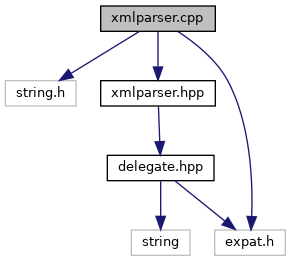
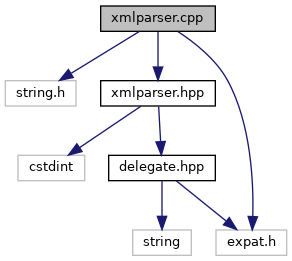
Deploying to gh-pages from @ gittiver/libexpatpp@73c6d649e3201de60597286577522f3f3f06a42f 🚀

diff --git a/xmlparser_8hpp_source.html b/xmlparser_8hpp_source.html
@@ -51,104 +51,106 @@ $(function() {
 <div class="line"><a name="l00006"></a><span class="lineno">    6</span>&#160;<span class="preprocessor">#ifndef xmlpp_parser_hpp</span></div>
 <div class="line"><a name="l00007"></a><span class="lineno">    7</span>&#160;<span class="preprocessor">#define xmlpp_parser_hpp</span></div>
 <div class="line"><a name="l00008"></a><span class="lineno">    8</span>&#160; </div>
-<div class="line"><a name="l00009"></a><span class="lineno">    9</span>&#160;<span class="preprocessor">#include &quot;<a class="code" href="delegate_8hpp.html">delegate.hpp</a>&quot;</span> </div>
-<div class="line"><a name="l00010"></a><span class="lineno">   10</span>&#160;<span class="keyword">namespace </span>xmlpp {</div>
+<div class="line"><a name="l00009"></a><span class="lineno">    9</span>&#160;<span class="preprocessor">#include &lt;cstdint&gt;</span></div>
+<div class="line"><a name="l00010"></a><span class="lineno">   10</span>&#160;<span class="preprocessor">#include &quot;<a class="code" href="delegate_8hpp.html">delegate.hpp</a>&quot;</span> </div>
 <div class="line"><a name="l00011"></a><span class="lineno">   11</span>&#160; </div>
-<div class="line"><a name="l00012"></a><span class="lineno">   12</span>&#160; </div>
-<div class="line"><a name="l00014"></a><span class="lineno"><a class="line" href="classxmlpp_1_1parser.html">   14</a></span>&#160;<span class="keyword">class </span><a class="code" href="classxmlpp_1_1parser.html">parser</a> {</div>
-<div class="line"><a name="l00015"></a><span class="lineno">   15</span>&#160;<span class="keyword">public</span>:</div>
-<div class="line"><a name="l00016"></a><span class="lineno">   16</span>&#160;  <span class="keyword">enum class</span> result : uint8_t {</div>
-<div class="line"><a name="l00017"></a><span class="lineno">   17</span>&#160;    OK,</div>
-<div class="line"><a name="l00018"></a><span class="lineno">   18</span>&#160;    NO_DELEGATE,</div>
-<div class="line"><a name="l00019"></a><span class="lineno">   19</span>&#160;    ERROR_OPEN_FILE,</div>
-<div class="line"><a name="l00020"></a><span class="lineno">   20</span>&#160;    INVALID_INPUT,</div>
-<div class="line"><a name="l00021"></a><span class="lineno">   21</span>&#160;    XML_BUFFER_ERROR,</div>
-<div class="line"><a name="l00022"></a><span class="lineno">   22</span>&#160;    READ_ERROR,</div>
-<div class="line"><a name="l00023"></a><span class="lineno">   23</span>&#160;    PARSE_ERROR</div>
-<div class="line"><a name="l00024"></a><span class="lineno">   24</span>&#160;  };</div>
-<div class="line"><a name="l00025"></a><span class="lineno">   25</span>&#160;  <span class="keyword">enum class</span> status_t {</div>
-<div class="line"><a name="l00026"></a><span class="lineno">   26</span>&#160;      ERROR = 0,</div>
-<div class="line"><a name="l00027"></a><span class="lineno">   27</span>&#160;      OK = 1,</div>
-<div class="line"><a name="l00028"></a><span class="lineno">   28</span>&#160;      SUSPENDED = 2</div>
-<div class="line"><a name="l00029"></a><span class="lineno">   29</span>&#160;  };</div>
-<div class="line"><a name="l00030"></a><span class="lineno">   30</span>&#160;  <span class="keyword">enum class</span> error_t {</div>
-<div class="line"><a name="l00031"></a><span class="lineno">   31</span>&#160;    NONE,</div>
-<div class="line"><a name="l00032"></a><span class="lineno">   32</span>&#160;    NO_MEMORY,</div>
-<div class="line"><a name="l00033"></a><span class="lineno">   33</span>&#160;    SYNTAX,</div>
-<div class="line"><a name="l00034"></a><span class="lineno">   34</span>&#160;    NO_ELEMENTS,</div>
-<div class="line"><a name="l00035"></a><span class="lineno">   35</span>&#160;    INVALID_TOKEN,</div>
-<div class="line"><a name="l00036"></a><span class="lineno">   36</span>&#160;    UNCLOSED_TOKEN,</div>
-<div class="line"><a name="l00037"></a><span class="lineno">   37</span>&#160;    PARTIAL_CHAR,</div>
-<div class="line"><a name="l00038"></a><span class="lineno">   38</span>&#160;    TAG_MISMATCH,</div>
-<div class="line"><a name="l00039"></a><span class="lineno">   39</span>&#160;    DUPLICATE_ATTRIBUTE,</div>
-<div class="line"><a name="l00040"></a><span class="lineno">   40</span>&#160;    JUNK_AFTER_DOC_ELEMENT,</div>
-<div class="line"><a name="l00041"></a><span class="lineno">   41</span>&#160;    PARAM_ENTITY_REF,</div>
-<div class="line"><a name="l00042"></a><span class="lineno">   42</span>&#160;    UNDEFINED_ENTITY,</div>
-<div class="line"><a name="l00043"></a><span class="lineno">   43</span>&#160;    RECURSIVE_ENTITY_REF,</div>
-<div class="line"><a name="l00044"></a><span class="lineno">   44</span>&#160;    ASYNC_ENTITY,</div>
-<div class="line"><a name="l00045"></a><span class="lineno">   45</span>&#160;    BAD_CHAR_REF,</div>
-<div class="line"><a name="l00046"></a><span class="lineno">   46</span>&#160;    BINARY_ENTITY_REF,</div>
-<div class="line"><a name="l00047"></a><span class="lineno">   47</span>&#160;    ATTRIBUTE_EXTERNAL_ENTITY_REF,</div>
-<div class="line"><a name="l00048"></a><span class="lineno">   48</span>&#160;    MISPLACED_XML_PI,</div>
-<div class="line"><a name="l00049"></a><span class="lineno">   49</span>&#160;    UNKNOWN_ENCODING,</div>
-<div class="line"><a name="l00050"></a><span class="lineno">   50</span>&#160;    INCORRECT_ENCODING,</div>
-<div class="line"><a name="l00051"></a><span class="lineno">   51</span>&#160;    UNCLOSED_CDATA_SECTION,</div>
-<div class="line"><a name="l00052"></a><span class="lineno">   52</span>&#160;    EXTERNAL_ENTITY_HANDLING,</div>
-<div class="line"><a name="l00053"></a><span class="lineno">   53</span>&#160;    NOT_STANDALONE,</div>
-<div class="line"><a name="l00054"></a><span class="lineno">   54</span>&#160;    UNEXPECTED_STATE,</div>
-<div class="line"><a name="l00055"></a><span class="lineno">   55</span>&#160;    ENTITY_DECLARED_IN_PE,</div>
-<div class="line"><a name="l00056"></a><span class="lineno">   56</span>&#160;    FEATURE_REQUIRES_XML_DTD,</div>
-<div class="line"><a name="l00057"></a><span class="lineno">   57</span>&#160;    CANT_CHANGE_FEATURE_ONCE_PARSING,</div>
-<div class="line"><a name="l00058"></a><span class="lineno">   58</span>&#160;    UNBOUND_PREFIX,</div>
-<div class="line"><a name="l00059"></a><span class="lineno">   59</span>&#160;    UNDECLARING_PREFIX,</div>
-<div class="line"><a name="l00060"></a><span class="lineno">   60</span>&#160;    INCOMPLETE_PE,</div>
-<div class="line"><a name="l00061"></a><span class="lineno">   61</span>&#160;    XML_DECL,</div>
-<div class="line"><a name="l00062"></a><span class="lineno">   62</span>&#160;    TEXT_DECL,</div>
-<div class="line"><a name="l00063"></a><span class="lineno">   63</span>&#160;    PUBLICID,</div>
-<div class="line"><a name="l00064"></a><span class="lineno">   64</span>&#160;    SUSPENDED,</div>
-<div class="line"><a name="l00065"></a><span class="lineno">   65</span>&#160;    NOT_SUSPENDED,</div>
-<div class="line"><a name="l00066"></a><span class="lineno">   66</span>&#160;    ABORTED,</div>
-<div class="line"><a name="l00067"></a><span class="lineno">   67</span>&#160;    FINISHED,</div>
-<div class="line"><a name="l00068"></a><span class="lineno">   68</span>&#160;    SUSPEND_PE,</div>
-<div class="line"><a name="l00069"></a><span class="lineno">   69</span>&#160;    RESERVED_PREFIX_XML,</div>
-<div class="line"><a name="l00070"></a><span class="lineno">   70</span>&#160;    RESERVED_PREFIX_XMLNS,</div>
-<div class="line"><a name="l00071"></a><span class="lineno">   71</span>&#160;    RESERVED_NAMESPACE_URI,</div>
-<div class="line"><a name="l00072"></a><span class="lineno">   72</span>&#160;    INVALID_ARGUMENT</div>
-<div class="line"><a name="l00073"></a><span class="lineno">   73</span>&#160;  };</div>
-<div class="line"><a name="l00074"></a><span class="lineno">   74</span>&#160; </div>
-<div class="line"><a name="l00075"></a><span class="lineno">   75</span>&#160;  <a class="code" href="classxmlpp_1_1parser.html">parser</a>(<a class="code" href="classxmlpp_1_1delegate.html">delegate</a>&amp; <a class="code" href="classxmlpp_1_1delegate.html">delegate</a>,<span class="keywordtype">char</span> namespaceSeparator = <span class="charliteral">&#39;:&#39;</span>);</div>
-<div class="line"><a name="l00076"></a><span class="lineno">   76</span>&#160;  <span class="keyword">virtual</span> ~<a class="code" href="classxmlpp_1_1parser.html">parser</a>();</div>
-<div class="line"><a name="l00077"></a><span class="lineno">   77</span>&#160; </div>
-<div class="line"><a name="l00078"></a><span class="lineno">   78</span>&#160;  <span class="keyword">static</span> result parseString(<span class="keyword">const</span> <span class="keywordtype">char</span>*pszString, <a class="code" href="classxmlpp_1_1delegate.html">delegate</a>&amp; <a class="code" href="classxmlpp_1_1delegate.html">delegate</a>);</div>
-<div class="line"><a name="l00079"></a><span class="lineno">   79</span>&#160;  <span class="keyword">static</span> result parseFile(<span class="keyword">const</span> std::string&amp; filename, <a class="code" href="classxmlpp_1_1delegate.html">delegate</a>&amp; <a class="code" href="classxmlpp_1_1delegate.html">delegate</a>);</div>
-<div class="line"><a name="l00086"></a><span class="lineno">   86</span>&#160;  <span class="keyword">static</span> <span class="keyword">const</span> XML_Char* <a class="code" href="classxmlpp_1_1parser.html#a2bc912d077428ccc1cb92ae58e3bb95c">xmlGetAttrValue</a>(<span class="keyword">const</span> XML_Char** attrs,</div>
-<div class="line"><a name="l00087"></a><span class="lineno">   87</span>&#160;                                  <span class="keyword">const</span> XML_Char* key);</div>
-<div class="line"><a name="l00088"></a><span class="lineno">   88</span>&#160; </div>
-<div class="line"><a name="l00089"></a><span class="lineno">   89</span>&#160; </div>
-<div class="line"><a name="l00090"></a><span class="lineno">   90</span>&#160;  status_t parse(<span class="keyword">const</span> <span class="keywordtype">char</span>* buffer, <span class="keywordtype">int</span> len, <span class="keywordtype">bool</span> isFinal);</div>
-<div class="line"><a name="l00091"></a><span class="lineno">   91</span>&#160;  error_t errorcode() <span class="keyword">const</span>;</div>
-<div class="line"><a name="l00092"></a><span class="lineno">   92</span>&#160;  <span class="keywordtype">int</span> current_line_number() <span class="keyword">const</span> ;</div>
-<div class="line"><a name="l00093"></a><span class="lineno">   93</span>&#160;  <span class="keywordtype">int</span> current_column_number() <span class="keyword">const</span> ;</div>
-<div class="line"><a name="l00094"></a><span class="lineno">   94</span>&#160;<span class="keyword">private</span>:</div>
-<div class="line"><a name="l00095"></a><span class="lineno">   95</span>&#160;  XML_Parser m_parser;</div>
-<div class="line"><a name="l00096"></a><span class="lineno">   96</span>&#160;};</div>
-<div class="line"><a name="l00097"></a><span class="lineno">   97</span>&#160; </div>
-<div class="line"><a name="l00099"></a><span class="lineno">   99</span>&#160;<span class="comment">//result parseFile(const std::string&amp; filename, delegate&amp; pDelegate);</span></div>
-<div class="line"><a name="l00100"></a><span class="lineno">  100</span>&#160; </div>
-<div class="line"><a name="l00101"></a><span class="lineno"><a class="line" href="classxmlpp_1_1Attr.html">  101</a></span>&#160;<span class="keyword">class </span><a class="code" href="classxmlpp_1_1Attr.html">Attr</a> {</div>
-<div class="line"><a name="l00102"></a><span class="lineno">  102</span>&#160;<span class="keyword">public</span>:</div>
-<div class="line"><a name="l00103"></a><span class="lineno">  103</span>&#160;  <a class="code" href="classxmlpp_1_1Attr.html">Attr</a>(<span class="keyword">const</span> XML_Char** attrs) : attrs_(attrs){};</div>
-<div class="line"><a name="l00104"></a><span class="lineno">  104</span>&#160;  std::string getValue(<span class="keyword">const</span> <span class="keywordtype">char</span>* key);</div>
-<div class="line"><a name="l00105"></a><span class="lineno">  105</span>&#160;<span class="keyword">private</span>:</div>
-<div class="line"><a name="l00106"></a><span class="lineno">  106</span>&#160;  <span class="keyword">const</span> XML_Char** attrs_{<span class="keyword">nullptr</span>};</div>
-<div class="line"><a name="l00107"></a><span class="lineno">  107</span>&#160;};</div>
-<div class="line"><a name="l00108"></a><span class="lineno">  108</span>&#160; </div>
-<div class="line"><a name="l00109"></a><span class="lineno">  109</span>&#160; </div>
-<div class="line"><a name="l00110"></a><span class="lineno">  110</span>&#160;}</div>
-<div class="line"><a name="l00111"></a><span class="lineno">  111</span>&#160;<span class="preprocessor">#endif </span><span class="comment">// #ifndef xmlpp_parser_hpp</span></div>
-<div class="ttc" id="aclassxmlpp_1_1Attr_html"><div class="ttname"><a href="classxmlpp_1_1Attr.html">xmlpp::Attr</a></div><div class="ttdoc">the parser delegate handles the different parser events</div><div class="ttdef"><b>Definition:</b> xmlparser.hpp:101</div></div>
+<div class="line"><a name="l00012"></a><span class="lineno">   12</span>&#160;<span class="keyword">namespace </span>xmlpp {</div>
+<div class="line"><a name="l00013"></a><span class="lineno">   13</span>&#160; </div>
+<div class="line"><a name="l00014"></a><span class="lineno">   14</span>&#160; </div>
+<div class="line"><a name="l00016"></a><span class="lineno"><a class="line" href="classxmlpp_1_1parser.html">   16</a></span>&#160;<span class="keyword">class </span><a class="code" href="classxmlpp_1_1parser.html">parser</a> {</div>
+<div class="line"><a name="l00017"></a><span class="lineno">   17</span>&#160;<span class="keyword">public</span>:</div>
+<div class="line"><a name="l00018"></a><span class="lineno">   18</span>&#160;  <span class="keyword">enum class</span> result : uint8_t {</div>
+<div class="line"><a name="l00019"></a><span class="lineno">   19</span>&#160;    OK,</div>
+<div class="line"><a name="l00020"></a><span class="lineno">   20</span>&#160;    NO_DELEGATE,</div>
+<div class="line"><a name="l00021"></a><span class="lineno">   21</span>&#160;    ERROR_OPEN_FILE,</div>
+<div class="line"><a name="l00022"></a><span class="lineno">   22</span>&#160;    INVALID_INPUT,</div>
+<div class="line"><a name="l00023"></a><span class="lineno">   23</span>&#160;    XML_BUFFER_ERROR,</div>
+<div class="line"><a name="l00024"></a><span class="lineno">   24</span>&#160;    READ_ERROR,</div>
+<div class="line"><a name="l00025"></a><span class="lineno">   25</span>&#160;    PARSE_ERROR</div>
+<div class="line"><a name="l00026"></a><span class="lineno">   26</span>&#160;  };</div>
+<div class="line"><a name="l00027"></a><span class="lineno">   27</span>&#160;  <span class="keyword">enum class</span> status_t {</div>
+<div class="line"><a name="l00028"></a><span class="lineno">   28</span>&#160;      ERROR = 0,</div>
+<div class="line"><a name="l00029"></a><span class="lineno">   29</span>&#160;      OK = 1,</div>
+<div class="line"><a name="l00030"></a><span class="lineno">   30</span>&#160;      SUSPENDED = 2</div>
+<div class="line"><a name="l00031"></a><span class="lineno">   31</span>&#160;  };</div>
+<div class="line"><a name="l00032"></a><span class="lineno">   32</span>&#160;  <span class="keyword">enum class</span> error_t {</div>
+<div class="line"><a name="l00033"></a><span class="lineno">   33</span>&#160;    NONE,</div>
+<div class="line"><a name="l00034"></a><span class="lineno">   34</span>&#160;    NO_MEMORY,</div>
+<div class="line"><a name="l00035"></a><span class="lineno">   35</span>&#160;    SYNTAX,</div>
+<div class="line"><a name="l00036"></a><span class="lineno">   36</span>&#160;    NO_ELEMENTS,</div>
+<div class="line"><a name="l00037"></a><span class="lineno">   37</span>&#160;    INVALID_TOKEN,</div>
+<div class="line"><a name="l00038"></a><span class="lineno">   38</span>&#160;    UNCLOSED_TOKEN,</div>
+<div class="line"><a name="l00039"></a><span class="lineno">   39</span>&#160;    PARTIAL_CHAR,</div>
+<div class="line"><a name="l00040"></a><span class="lineno">   40</span>&#160;    TAG_MISMATCH,</div>
+<div class="line"><a name="l00041"></a><span class="lineno">   41</span>&#160;    DUPLICATE_ATTRIBUTE,</div>
+<div class="line"><a name="l00042"></a><span class="lineno">   42</span>&#160;    JUNK_AFTER_DOC_ELEMENT,</div>
+<div class="line"><a name="l00043"></a><span class="lineno">   43</span>&#160;    PARAM_ENTITY_REF,</div>
+<div class="line"><a name="l00044"></a><span class="lineno">   44</span>&#160;    UNDEFINED_ENTITY,</div>
+<div class="line"><a name="l00045"></a><span class="lineno">   45</span>&#160;    RECURSIVE_ENTITY_REF,</div>
+<div class="line"><a name="l00046"></a><span class="lineno">   46</span>&#160;    ASYNC_ENTITY,</div>
+<div class="line"><a name="l00047"></a><span class="lineno">   47</span>&#160;    BAD_CHAR_REF,</div>
+<div class="line"><a name="l00048"></a><span class="lineno">   48</span>&#160;    BINARY_ENTITY_REF,</div>
+<div class="line"><a name="l00049"></a><span class="lineno">   49</span>&#160;    ATTRIBUTE_EXTERNAL_ENTITY_REF,</div>
+<div class="line"><a name="l00050"></a><span class="lineno">   50</span>&#160;    MISPLACED_XML_PI,</div>
+<div class="line"><a name="l00051"></a><span class="lineno">   51</span>&#160;    UNKNOWN_ENCODING,</div>
+<div class="line"><a name="l00052"></a><span class="lineno">   52</span>&#160;    INCORRECT_ENCODING,</div>
+<div class="line"><a name="l00053"></a><span class="lineno">   53</span>&#160;    UNCLOSED_CDATA_SECTION,</div>
+<div class="line"><a name="l00054"></a><span class="lineno">   54</span>&#160;    EXTERNAL_ENTITY_HANDLING,</div>
+<div class="line"><a name="l00055"></a><span class="lineno">   55</span>&#160;    NOT_STANDALONE,</div>
+<div class="line"><a name="l00056"></a><span class="lineno">   56</span>&#160;    UNEXPECTED_STATE,</div>
+<div class="line"><a name="l00057"></a><span class="lineno">   57</span>&#160;    ENTITY_DECLARED_IN_PE,</div>
+<div class="line"><a name="l00058"></a><span class="lineno">   58</span>&#160;    FEATURE_REQUIRES_XML_DTD,</div>
+<div class="line"><a name="l00059"></a><span class="lineno">   59</span>&#160;    CANT_CHANGE_FEATURE_ONCE_PARSING,</div>
+<div class="line"><a name="l00060"></a><span class="lineno">   60</span>&#160;    UNBOUND_PREFIX,</div>
+<div class="line"><a name="l00061"></a><span class="lineno">   61</span>&#160;    UNDECLARING_PREFIX,</div>
+<div class="line"><a name="l00062"></a><span class="lineno">   62</span>&#160;    INCOMPLETE_PE,</div>
+<div class="line"><a name="l00063"></a><span class="lineno">   63</span>&#160;    XML_DECL,</div>
+<div class="line"><a name="l00064"></a><span class="lineno">   64</span>&#160;    TEXT_DECL,</div>
+<div class="line"><a name="l00065"></a><span class="lineno">   65</span>&#160;    PUBLICID,</div>
+<div class="line"><a name="l00066"></a><span class="lineno">   66</span>&#160;    SUSPENDED,</div>
+<div class="line"><a name="l00067"></a><span class="lineno">   67</span>&#160;    NOT_SUSPENDED,</div>
+<div class="line"><a name="l00068"></a><span class="lineno">   68</span>&#160;    ABORTED,</div>
+<div class="line"><a name="l00069"></a><span class="lineno">   69</span>&#160;    FINISHED,</div>
+<div class="line"><a name="l00070"></a><span class="lineno">   70</span>&#160;    SUSPEND_PE,</div>
+<div class="line"><a name="l00071"></a><span class="lineno">   71</span>&#160;    RESERVED_PREFIX_XML,</div>
+<div class="line"><a name="l00072"></a><span class="lineno">   72</span>&#160;    RESERVED_PREFIX_XMLNS,</div>
+<div class="line"><a name="l00073"></a><span class="lineno">   73</span>&#160;    RESERVED_NAMESPACE_URI,</div>
+<div class="line"><a name="l00074"></a><span class="lineno">   74</span>&#160;    INVALID_ARGUMENT</div>
+<div class="line"><a name="l00075"></a><span class="lineno">   75</span>&#160;  };</div>
+<div class="line"><a name="l00076"></a><span class="lineno">   76</span>&#160; </div>
+<div class="line"><a name="l00077"></a><span class="lineno">   77</span>&#160;  <a class="code" href="classxmlpp_1_1parser.html">parser</a>(<a class="code" href="classxmlpp_1_1delegate.html">delegate</a>&amp; <a class="code" href="classxmlpp_1_1delegate.html">delegate</a>,<span class="keywordtype">char</span> namespaceSeparator = <span class="charliteral">&#39;:&#39;</span>);</div>
+<div class="line"><a name="l00078"></a><span class="lineno">   78</span>&#160;  <span class="keyword">virtual</span> ~<a class="code" href="classxmlpp_1_1parser.html">parser</a>();</div>
+<div class="line"><a name="l00079"></a><span class="lineno">   79</span>&#160; </div>
+<div class="line"><a name="l00080"></a><span class="lineno">   80</span>&#160;  <span class="keyword">static</span> result parseString(<span class="keyword">const</span> <span class="keywordtype">char</span>*pszString, <a class="code" href="classxmlpp_1_1delegate.html">delegate</a>&amp; <a class="code" href="classxmlpp_1_1delegate.html">delegate</a>);</div>
+<div class="line"><a name="l00081"></a><span class="lineno">   81</span>&#160;  <span class="keyword">static</span> result parseFile(<span class="keyword">const</span> std::string&amp; filename, <a class="code" href="classxmlpp_1_1delegate.html">delegate</a>&amp; <a class="code" href="classxmlpp_1_1delegate.html">delegate</a>);</div>
+<div class="line"><a name="l00088"></a><span class="lineno">   88</span>&#160;  <span class="keyword">static</span> <span class="keyword">const</span> XML_Char* <a class="code" href="classxmlpp_1_1parser.html#a2bc912d077428ccc1cb92ae58e3bb95c">xmlGetAttrValue</a>(<span class="keyword">const</span> XML_Char** attrs,</div>
+<div class="line"><a name="l00089"></a><span class="lineno">   89</span>&#160;                                  <span class="keyword">const</span> XML_Char* key);</div>
+<div class="line"><a name="l00090"></a><span class="lineno">   90</span>&#160; </div>
+<div class="line"><a name="l00091"></a><span class="lineno">   91</span>&#160; </div>
+<div class="line"><a name="l00092"></a><span class="lineno">   92</span>&#160;  status_t parse(<span class="keyword">const</span> <span class="keywordtype">char</span>* buffer, <span class="keywordtype">int</span> len, <span class="keywordtype">bool</span> isFinal);</div>
+<div class="line"><a name="l00093"></a><span class="lineno">   93</span>&#160;  error_t errorcode() <span class="keyword">const</span>;</div>
+<div class="line"><a name="l00094"></a><span class="lineno">   94</span>&#160;  <span class="keywordtype">int</span> current_line_number() <span class="keyword">const</span> ;</div>
+<div class="line"><a name="l00095"></a><span class="lineno">   95</span>&#160;  <span class="keywordtype">int</span> current_column_number() <span class="keyword">const</span> ;</div>
+<div class="line"><a name="l00096"></a><span class="lineno">   96</span>&#160;<span class="keyword">private</span>:</div>
+<div class="line"><a name="l00097"></a><span class="lineno">   97</span>&#160;  XML_Parser m_parser;</div>
+<div class="line"><a name="l00098"></a><span class="lineno">   98</span>&#160;};</div>
+<div class="line"><a name="l00099"></a><span class="lineno">   99</span>&#160; </div>
+<div class="line"><a name="l00101"></a><span class="lineno">  101</span>&#160;<span class="comment">//result parseFile(const std::string&amp; filename, delegate&amp; pDelegate);</span></div>
+<div class="line"><a name="l00102"></a><span class="lineno">  102</span>&#160; </div>
+<div class="line"><a name="l00103"></a><span class="lineno"><a class="line" href="classxmlpp_1_1Attr.html">  103</a></span>&#160;<span class="keyword">class </span><a class="code" href="classxmlpp_1_1Attr.html">Attr</a> {</div>
+<div class="line"><a name="l00104"></a><span class="lineno">  104</span>&#160;<span class="keyword">public</span>:</div>
+<div class="line"><a name="l00105"></a><span class="lineno">  105</span>&#160;  <a class="code" href="classxmlpp_1_1Attr.html">Attr</a>(<span class="keyword">const</span> XML_Char** attrs) : attrs_(attrs){};</div>
+<div class="line"><a name="l00106"></a><span class="lineno">  106</span>&#160;  std::string getValue(<span class="keyword">const</span> <span class="keywordtype">char</span>* key);</div>
+<div class="line"><a name="l00107"></a><span class="lineno">  107</span>&#160;<span class="keyword">private</span>:</div>
+<div class="line"><a name="l00108"></a><span class="lineno">  108</span>&#160;  <span class="keyword">const</span> XML_Char** attrs_{<span class="keyword">nullptr</span>};</div>
+<div class="line"><a name="l00109"></a><span class="lineno">  109</span>&#160;};</div>
+<div class="line"><a name="l00110"></a><span class="lineno">  110</span>&#160; </div>
+<div class="line"><a name="l00111"></a><span class="lineno">  111</span>&#160; </div>
+<div class="line"><a name="l00112"></a><span class="lineno">  112</span>&#160;}</div>
+<div class="line"><a name="l00113"></a><span class="lineno">  113</span>&#160;<span class="preprocessor">#endif </span><span class="comment">// #ifndef xmlpp_parser_hpp</span></div>
+<div class="ttc" id="aclassxmlpp_1_1Attr_html"><div class="ttname"><a href="classxmlpp_1_1Attr.html">xmlpp::Attr</a></div><div class="ttdoc">the parser delegate handles the different parser events</div><div class="ttdef"><b>Definition:</b> xmlparser.hpp:103</div></div>
 <div class="ttc" id="aclassxmlpp_1_1delegate_html"><div class="ttname"><a href="classxmlpp_1_1delegate.html">xmlpp::delegate</a></div><div class="ttdoc">definition of the parser delegate interface.</div><div class="ttdef"><b>Definition:</b> delegate.hpp:31</div></div>
-<div class="ttc" id="aclassxmlpp_1_1parser_html"><div class="ttname"><a href="classxmlpp_1_1parser.html">xmlpp::parser</a></div><div class="ttdoc">namespace for SAX2 xml Parser based on expat</div><div class="ttdef"><b>Definition:</b> xmlparser.hpp:14</div></div>
+<div class="ttc" id="aclassxmlpp_1_1parser_html"><div class="ttname"><a href="classxmlpp_1_1parser.html">xmlpp::parser</a></div><div class="ttdoc">namespace for SAX2 xml Parser based on expat</div><div class="ttdef"><b>Definition:</b> xmlparser.hpp:16</div></div>
 <div class="ttc" id="aclassxmlpp_1_1parser_html_a2bc912d077428ccc1cb92ae58e3bb95c"><div class="ttname"><a href="classxmlpp_1_1parser.html#a2bc912d077428ccc1cb92ae58e3bb95c">xmlpp::parser::xmlGetAttrValue</a></div><div class="ttdeci">static const XML_Char * xmlGetAttrValue(const XML_Char **attrs, const XML_Char *key)</div><div class="ttdoc">get value of xml attribute identifeid by key from attrs</div><div class="ttdef"><b>Definition:</b> xmlparser.cpp:310</div></div>
 <div class="ttc" id="adelegate_8hpp_html"><div class="ttname"><a href="delegate_8hpp.html">delegate.hpp</a></div><div class="ttdoc">contains the xml parsers delegate interface</div></div>
 </div><!-- fragment --></div><!-- contents -->

diff --git a/xmlparser_8hpp.html b/xmlparser_8hpp.html
@@ -52,16 +52,18 @@ $(function() {
 
 <p>contains the xml parser module interface  
 <a href="#details">More...</a></p>
-<div class="textblock"><code>#include &quot;<a class="el" href="delegate_8hpp_source.html">delegate.hpp</a>&quot;</code><br />
+<div class="textblock"><code>#include &lt;cstdint&gt;</code><br />
+<code>#include &quot;<a class="el" href="delegate_8hpp_source.html">delegate.hpp</a>&quot;</code><br />
 </div><div class="textblock"><div class="dynheader">
 Include dependency graph for xmlparser.hpp:</div>
 <div class="dyncontent">
 <div class="center"><img src="xmlparser_8hpp__incl.png" border="0" usemap="#axmlparser_8hpp" alt=""/></div>
 <map name="axmlparser_8hpp" id="axmlparser_8hpp">
-<area shape="rect" title="contains the xml parser module interface" alt="" coords="21,5,136,32"/>
-<area shape="rect" href="delegate_8hpp.html" title="contains the xml parsers delegate interface" alt="" coords="25,80,132,107"/>
-<area shape="rect" title=" " alt="" coords="5,155,64,181"/>
-<area shape="rect" title=" " alt="" coords="89,155,159,181"/>
+<area shape="rect" title="contains the xml parser module interface" alt="" coords="36,5,151,32"/>
+<area shape="rect" title=" " alt="" coords="5,80,72,107"/>
+<area shape="rect" href="delegate_8hpp.html" title="contains the xml parsers delegate interface" alt="" coords="96,80,203,107"/>
+<area shape="rect" title=" " alt="" coords="75,155,133,181"/>
+<area shape="rect" title=" " alt="" coords="158,155,229,181"/>
 </map>
 </div>
 </div><div class="textblock"><div class="dynheader">

diff --git a/expatpp_8hpp.html b/expatpp_8hpp.html
@@ -56,11 +56,12 @@ Include dependency graph for expatpp.hpp:</div>
 <div class="dyncontent">
 <div class="center"><img src="expatpp_8hpp__incl.png" border="0" usemap="#aexpatpp_8hpp" alt=""/></div>
 <map name="aexpatpp_8hpp" id="aexpatpp_8hpp">
-<area shape="rect" title="contains the expatpp libraries interface header" alt="" coords="27,5,130,32"/>
-<area shape="rect" href="xmlparser_8hpp.html" title="contains the xml parser module interface" alt="" coords="21,80,136,107"/>
-<area shape="rect" href="delegate_8hpp.html" title="contains the xml parsers delegate interface" alt="" coords="25,155,132,181"/>
-<area shape="rect" title=" " alt="" coords="5,229,64,256"/>
-<area shape="rect" title=" " alt="" coords="89,229,159,256"/>
+<area shape="rect" title="contains the expatpp libraries interface header" alt="" coords="42,5,145,32"/>
+<area shape="rect" href="xmlparser_8hpp.html" title="contains the xml parser module interface" alt="" coords="36,80,151,107"/>
+<area shape="rect" title=" " alt="" coords="5,155,72,181"/>
+<area shape="rect" href="delegate_8hpp.html" title="contains the xml parsers delegate interface" alt="" coords="96,155,203,181"/>
+<area shape="rect" title=" " alt="" coords="75,229,133,256"/>
+<area shape="rect" title=" " alt="" coords="158,229,229,256"/>
 </map>
 </div>
 </div>

diff --git a/xmlparser_8cpp.html b/xmlparser_8cpp.html
@@ -61,9 +61,10 @@ Include dependency graph for xmlparser.cpp:</div>
 <area shape="rect" title="implementation of xml parser functions" alt="" coords="101,5,215,32"/>
 <area shape="rect" title=" " alt="" coords="5,80,76,107"/>
 <area shape="rect" href="xmlparser_8hpp.html" title="contains the xml parser module interface" alt="" coords="101,80,215,107"/>
-<area shape="rect" title=" " alt="" coords="215,229,285,256"/>
-<area shape="rect" href="delegate_8hpp.html" title="contains the xml parsers delegate interface" alt="" coords="107,155,214,181"/>
-<area shape="rect" title=" " alt="" coords="131,229,190,256"/>
+<area shape="rect" title=" " alt="" coords="216,229,287,256"/>
+<area shape="rect" title=" " alt="" coords="18,155,85,181"/>
+<area shape="rect" href="delegate_8hpp.html" title="contains the xml parsers delegate interface" alt="" coords="109,155,215,181"/>
+<area shape="rect" title=" " alt="" coords="133,229,191,256"/>
 </map>
 </div>
 </div><a name="details" id="details"></a><h2 class="groupheader">Detailed Description</h2>
